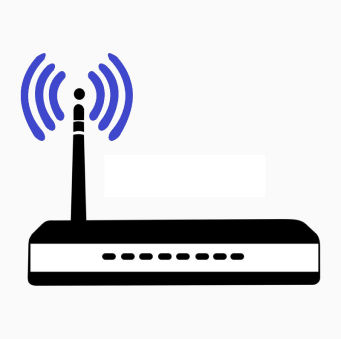
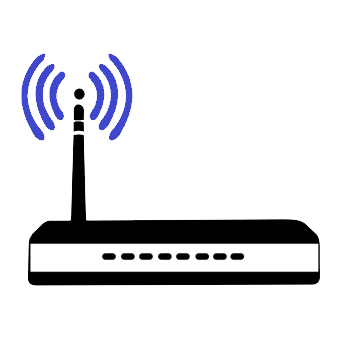
X
a

diff --git a/screens/Service.js b/screens/Service.js
@@ -23,9 +23,9 @@ export default function Service(){
         register: 0
     }];
     
-    const [wifi,setWifi]=useState(0);
+    const [wifi,setWifi]=useState(1);
     getSelectedDayEvents = date => {
-        navigation.navigate("Payment",{types:"Đăng kí dọn phòng",date:date})    
+        navigation.navigate("Payment",{types:"Đăng kí dọn phòng",date:date,image:require('../assets/Clean.png')})    
     };
     return(
         <View style ={styles.container}>
@@ -42,11 +42,11 @@ export default function Service(){
                         <View >
                             <View style={styles.float}>
                                 <Text style={styles.half}>Chưa đăng ký dịch vụ Wifi</Text>
-                                <TouchableOpacity onPress={()=>{navigation.navigate("Payment",{types:"Đăng kí wifi",date:"30/9/2022-30/10/2022"})}}>
+                                <TouchableOpacity onPress={()=>{navigation.navigate("Payment",{types:"Đăng kí wifi",date:"30/9/2022-30/10/2022",image:require('../assets/wifi.png')})}}>
                                         <Image top='80%' left='200%' source={require('../assets/register.png')}/> 
                                 </TouchableOpacity>
                             </View>
-                            <Image top='35%' source={require('../assets/routewifi.png')}/>
+                            <Image top='35%' source={require('../assets/wifi.png')}/>
                         </View>}
                         { wifi ==1 &&
                             <View>
@@ -77,7 +77,7 @@ export default function Service(){
                                 }}>
                                 30/9/2022 - 30/10/2022
                                 </Animated.Text>
-                                <View top='80%' left='67%'>
+                                <View top='5%' left='57%'>
                                 <TouchableOpacity onPress={()=>setWifi(0)}>
                                     <Image  source={require('../assets/cancel.png')} />
                                 </TouchableOpacity>
@@ -114,7 +114,7 @@ export default function Service(){
                                     </View>
                                     
                                     {!props.register?
-                                    <TouchableOpacity onPress={()=>{navigation.navigate("Payment",{types:"Đăng kí giữ xe",date:"30/9/2022-30/10/2022"})}}>
+                                    <TouchableOpacity onPress={()=>{navigation.navigate("Payment",{types:"Đăng kí giữ xe",date:"30/9/2022-30/10/2022",image:require('../assets/car.png')})}}>
                                         <Image marginTop='2%' source={require('../assets/register.png')}/> 
                                     </TouchableOpacity>:
                                     <TouchableOpacity>

diff --git a/screens/Payment.js b/screens/Payment.js
@@ -7,7 +7,7 @@ export default function Payment( {navigation, route} ){
     const [date,setDate]= useState("");
     return (
     <View style={styles.container}>
-            <Image style={styles.delets} source={require('../assets/wifi.png')}/>
+            <Image style={styles.delets} source={route.params.image}/>
             <Animated.Text style={{fontWeight:'bold',marginTop:5}}>{route.params.types}</Animated.Text>
             <Animated.Text style={{fontWeight:'bold' ,marginTop:5}}>{route.params.date}</Animated.Text>
             <Animated.Text style={{left:'-31%',marginTop:5}}>Số thẻ</Animated.Text>
